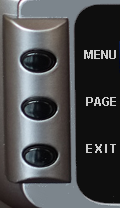
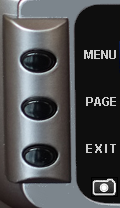
Small bug fixes and screenshot function for X9DA

Changed region(s): [[0.75, 0.8365, 0.975, 0.9519]]

diff --git a/src/comparedialog.cpp b/src/comparedialog.cpp
@@ -1627,7 +1627,7 @@ void compareDialog::printFrSky()
   str.append("<td align=\"center\">&lt;</td>");
   color=getColor2(fd1->rssiAlarms[1].value,fd2->rssiAlarms[1].value);
   str.append("<td align=\"center\"><font color="+color+">"+QString::number(fd2->rssiAlarms[1].value,10)+"</td>");
-  str.append("</table>");
+  str.append("</table></br>");
 
     if (GetEepromInterface()->getCapability(TelemetryBars) || GetEepromInterface()->getCapability(TelemetryCSFields)) {
     for (int j=0; j<GetEepromInterface()->getCapability(TelemetryCSFields)/8; j++) {
@@ -1645,7 +1645,7 @@ void compareDialog::printFrSky()
         }
         str.append("</table>");
       } else {
-        str.append("<table border=1 cellspacing=0 cellpadding=1 width=\"100%\"><tr><td colspan=4 align=\"Left\"><b><font color="+color+">"+tr("Telemetry Bars")+"</b></td></tr>");
+        str.append("<br><table border=1 cellspacing=0 cellpadding=1 width=\"100%\"><tr><td colspan=4 align=\"Left\"><b><font color="+color+">"+tr("Telemetry Bars")+"</b></td></tr>");
         str.append("<tr><td  align=\"Center\"><b>"+tr("Bar Number")+"</b></td><td  align=\"Center\"><b>"+tr("Source")+"</b></td><td  align=\"Center\"><b>"+tr("Min")+"</b></td><td  align=\"Center\"><b>"+tr("Max")+"</b></td></tr>");
         for (int i=0; i<4; i++) {
           str.append("<tr><td  align=\"Center\"><b>"+QString::number(i+1,10)+"</b></td>");

diff --git a/src/xcursorwidget.h b/src/xcursorwidget.h
@@ -56,8 +56,8 @@ class xcursorWidget : public QWidget {
           else if (pnpoly(6,p3x,p3y,(float)x,(float)y)==1) {
             setStyleSheet("background:url(:/images/x9l3.png);");
             emit buttonPressed(Qt::Key_Escape);
-          } else if (sqrt(((float)x-22)*((float)x-22)+((float)y-165)*((float)y-165))<17) {
-            setStyleSheet("background:url(:/images/x9l0.png);");
+          } else if ((x>90 && x<118) && (y>177 && y<197)) {
+            setStyleSheet("background:url(:/images/x9l4.png);");
             emit buttonPressed(Qt::Key_Print);
           }
         }

diff --git a/src/generaledit.cpp b/src/generaledit.cpp
@@ -65,6 +65,10 @@ GeneralEdit::GeneralEdit(RadioData &radioData, QWidget *parent) :
       ui->hideNameOnSplashChkB->hide();
       ui->label_hideOwnerName->hide();      
     }
+    if (!GetEepromInterface()->getCapability(HasInputFilter)) {
+      ui->inputfilterCB->hide();
+      ui->inputfilterLabel->hide();
+    }
     if (GetEepromInterface()->getCapability(PerModelThrottleWarning)) {
       ui->thrwarnChkB->setDisabled(true);
       ui->thrwarnChkB->hide();

diff --git a/src/ersky9xinterface.cpp b/src/ersky9xinterface.cpp
@@ -288,6 +288,8 @@ int Ersky9xInterface::getCapability(const Capability capability)
       return 1;
     case OwnerName:
       return 10;
+    case HasInputFilter:
+      return 1;
     case ModelVoice:
       return 1;
     case Timers:

diff --git a/src/er9xinterface.cpp b/src/er9xinterface.cpp
@@ -303,6 +303,8 @@ int Er9xInterface::getCapability(const Capability capability)
       return 2;
     case ModelVoice:
       return 1;
+    case HasInputFilter:
+      return 1;
     case VoicesAsNumbers:
       return 1;
     default:

diff --git a/src/th9xinterface.cpp b/src/th9xinterface.cpp
@@ -205,6 +205,8 @@ int Th9xInterface::getCapability(const Capability capability)
       return 4;
     case Simulation:
       return 1;
+    case HasInputFilter:
+      return 1;
     case CSFunc:
       return 13;      
     default:

diff --git a/src/eeprominterface.h b/src/eeprominterface.h
@@ -780,6 +780,7 @@ enum Capability {
  ExtraTrims,
  ExtendedTrims,
  HasNegCurves,
+ HasInputFilter,
  HasExpoCurves,
  ExpoIsCurve,
  ExpoCurve5,
